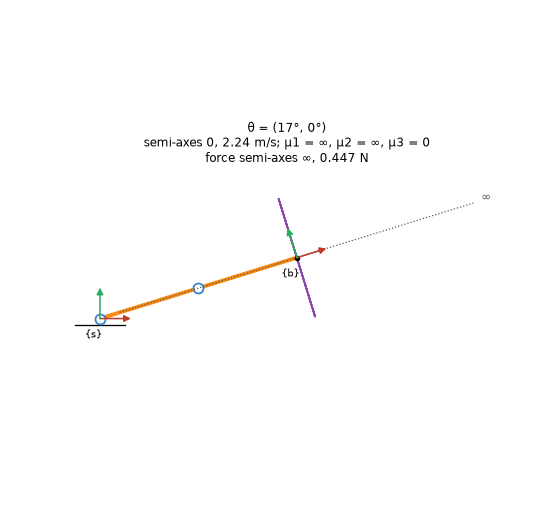
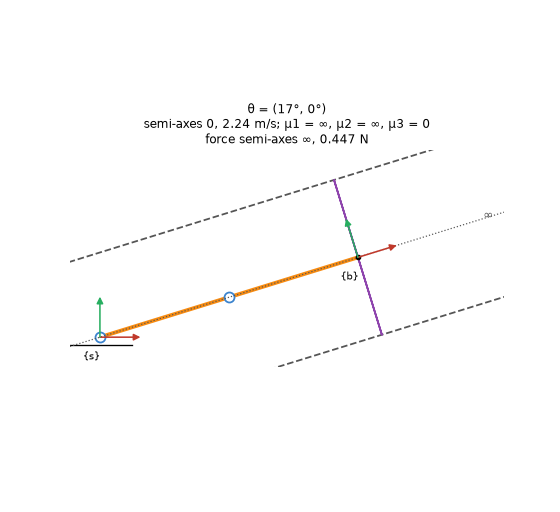
docs: the Jacobians page's pictures redrawn, ellipsoids leaving the frame
examples/jacobians.py rerun. singular_2r.png and ellipse_2r.gif change
as intended; ellipses_2r.png and ellipsoid_ur5.png only in sampling (the
outline's points, the wireframe's lines). The guide says what the
singular picture now shows, and the changelog has it under Changed.

diff --git a/docs/guide/pictures/jacobians.md b/docs/guide/pictures/jacobians.md
@@ -53,15 +53,17 @@ The two postures of notes 5.5, drawn at one scale. Both have μ3 = 0.707, but μ
 against 1.63, which is the point that example makes. Left to itself, each ellipsoid gets its
 own scale, its longest semi-axis 0.3 of the robot's reach.
 
-![The 2R arm stretched straight: the purple ellipse collapsed to a segment across the arm, and a dotted line along the arm marked infinity](../../media/singular_2r.png)
+![The 2R arm stretched straight: the purple ellipse collapsed to a segment across the arm, and the grey dashed force ellipse become two lines along the arm running out of the picture, its dotted axis marked infinity](../../media/singular_2r.png)
 
 ```python
 viz.draw_ellipsoid(arm, [0.3, 0], force=True, planar=True)
 ```
 
 Stretched out, at θ2 = 0. The velocity ellipse is a segment, with semi-axes 0 and 2.24 m/s.
-Along the arm the force ellipse is unbounded, so the picture draws only its bounded section,
-dots the lost axis and marks it ∞. It never draws a big finite ellipse.
+Along the arm the force ellipse is unbounded, so it runs out of the picture both ways: what
+is left of it is two lines along the arm, 0.447 N either side. Its lost axis is dotted and
+marked ∞ where it leaves. Every ellipsoid is drawn at its true size, and the frame is set by
+the robot, not stretched to hold a long one.
 
 ![The UR5 with a translucent purple ellipsoid at the tool and a grey wireframe force ellipsoid around it](../../media/ellipsoid_ur5.png)
 
@@ -84,7 +86,8 @@ viz.animate_robot(arm, [np.pi / 6, 2.4], [np.pi / 3, 0], force=True, planar=True
 ```
 
 Constant joint rates into the stretched-out singularity. The short semi-axis reaches zero in
-the last frame.
+the last frame, while the force ellipse grows along the arm and out of the frame, ending as
+the two lines of the picture above.
 
 ![The UR5 straightens its elbow while J_s(θ) changes beside it; the caption ends at rank J_s = 5, singular](../../media/ellipsoid_ur5.gif)
 

diff --git a/CHANGELOG.md b/CHANGELOG.md
@@ -16,6 +16,13 @@ Every release of `screws`, newest first. Versions are git tags, and a tag publis
   The README shows the UR5 putt again.
 
 ### Changed
+- Ellipsoids are drawn at their true size and run out of the frame, instead of being cut
+  short at 0.9 of the robot's reach and marked …. The frame is set by the robot and the
+  ellipsoids' typical size, so an animation into a singularity no longer zooms out for the
+  force ellipsoid's spike. At the singularity the force ellipsoid is drawn as what it has
+  become, two lines along the lost direction in the plane or a cylinder in space, running
+  out of the frame both ways; its lost axis is dotted and marked ∞ where it leaves.
+  `EllipsoidDrawing.clipped` now says whether a semi-axis reaches past the frame.
 - `docs/media/putt.gif` is made from `putt.mp4` with ffmpeg: 557 KB instead of 5.7 MB, and
   15 frames a second instead of 10.
 
